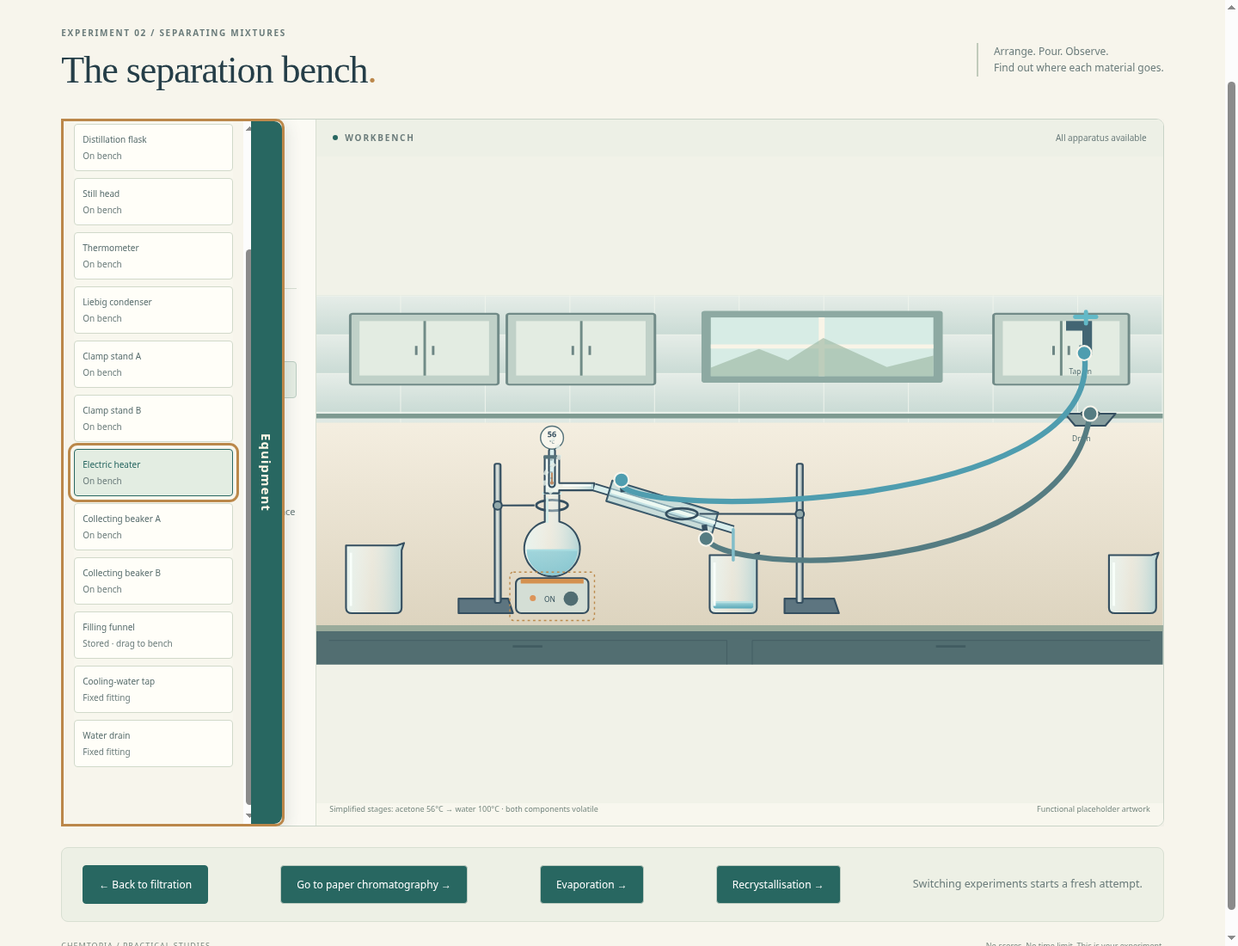
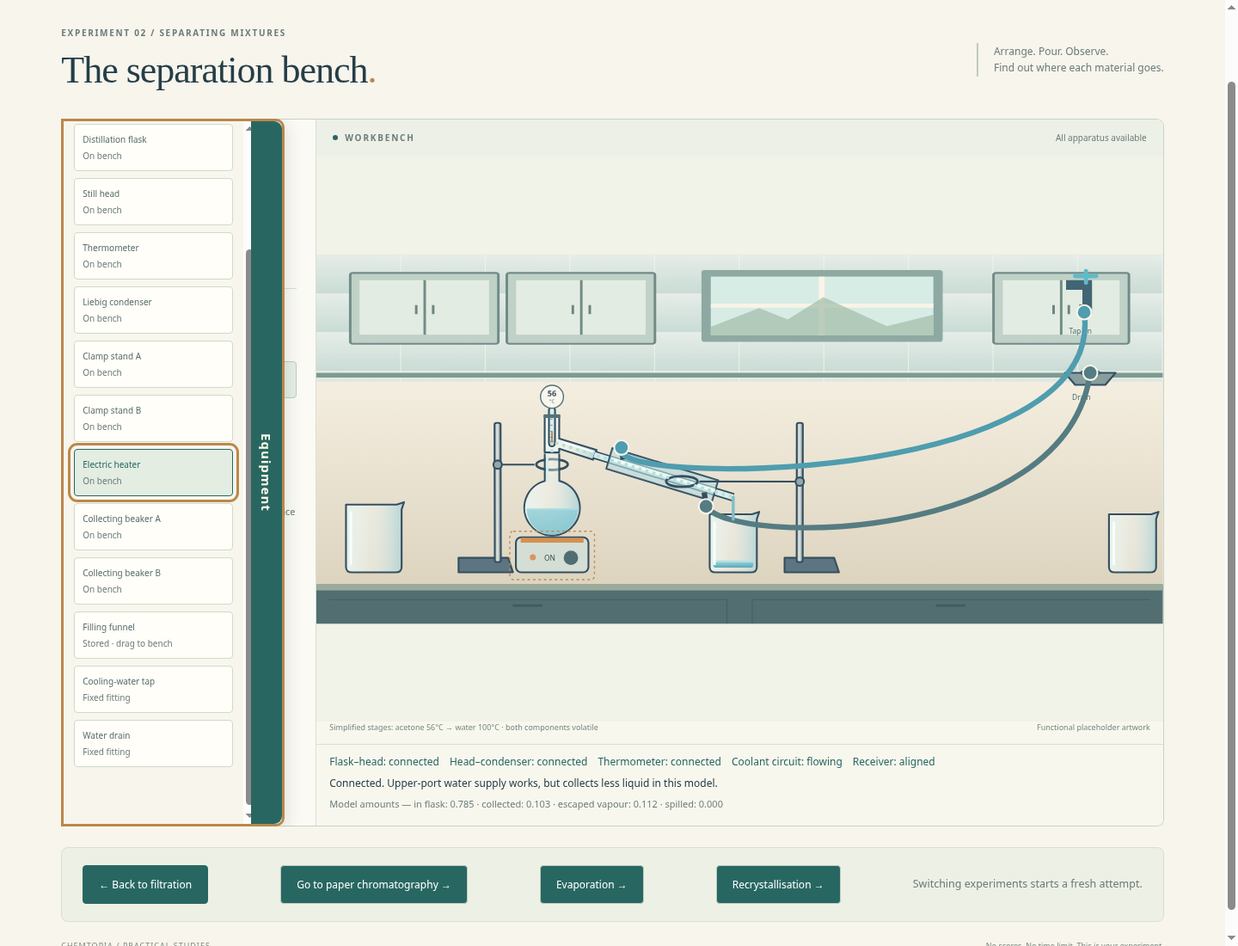
Make distillation assembly forgiving and show vapour routing status

Changed region(s): [[0.25, 0.2782, 0.9375, 0.7109], [0.2812, 0.8036, 0.5938, 0.8655]]

diff --git a/prototype/distillation-model.js b/prototype/distillation-model.js
@@ -4,18 +4,21 @@ export const EPS=1e-8;
 export const PARAMETERS={feedAcetone:.5,feedWater:.5,ambientTemperature:20,acetoneBoilingPoint:56,waterBoilingPoint:100,temperatureRiseRate:5,temperatureFallRate:4,boilRate:.075,fullJacketEfficiency:.94,partialJacketEfficiency:.48};
 const box=(x,y,w,h)=>({x,y,w,h});
 const tube=(x,y,w,h)=>box(x,y,w,h);
+export const HEAD_OUTLET={x:70,y:64};
+export const CLAMP_B_Y=-134;
+export const FIT={glass:42,clamp:42,angle:24,hose:34};
 export const NAMES={source:'Acetone–water feed',flask:'Distillation flask',head:'Still head',thermometer:'Thermometer',condenser:'Liebig condenser',support1:'Clamp stand A',support2:'Clamp stand B',heater:'Electric heater',receiverA:'Collecting beaker A',receiverB:'Collecting beaker B',funnel:'Filling funnel',tap:'Cooling-water tap',drain:'Water drain'};
 const vessel=(id,x,y,extra={})=>({id,kind:'beaker',x,y,angle:0,water:0,acetone:0,distilledAcetone:0,capacity:.8,...extra});
 export function createState(){
- const stand=id=>({id,kind:'clampStand',x:id==='support1'?300:1000,y:509,angle:0,mass:8,collision:id==='support1'?[box(0,-116,10,230),box(-20,4,90,24),box(30,-162,60,7),box(64,-162,4,20),box(116,-162,4,20)]:[box(0,-116,10,230),box(20,4,90,24),box(-83,-148,166,7),box(-221,-148,4,20),box(-169,-148,4,20)]});
+ const stand=id=>({id,kind:'clampStand',x:id==='support1'?300:1000,y:509,angle:0,mass:8,collision:id==='support1'?[box(0,-116,10,230),box(-20,4,90,24),box(30,-162,60,7),box(64,-162,4,20),box(116,-162,4,20)]:[box(0,-116,10,230),box(20,4,90,24),box(-83,CLAMP_B_Y,166,7),box(-221,CLAMP_B_Y,4,20),box(-169,CLAMP_B_Y,4,20)]});
  const state={width:1400,phase:'working',initial:{acetone:PARAMETERS.feedAcetone,water:PARAMETERS.feedWater},
   items:{
    source:vessel('source',95,413,{capacity:1.3,acetone:PARAMETERS.feedAcetone,water:PARAMETERS.feedWater}),
    flask:vessel('flask',760,385,{kind:'flask',mass:.7,capacity:1.5,heat:0,temperature:PARAMETERS.ambientTemperature,collision:[tube(-12,24,4,48),tube(12,24,4,48),{x:0,y:94,radius:46}]}),
    funnel:{id:'funnel',kind:'fillingFunnel',x:320,y:40,angle:0,mass:.15,collision:[{vertices:[{x:-40,y:0},{x:-35,y:0},{x:-3,y:34},{x:-5,y:37}]},{vertices:[{x:40,y:0},{x:35,y:0},{x:3,y:34},{x:5,y:37}]},box(-4,55,2,42),box(4,55,2,42)]},
-   head:{id:'head',kind:'head',x:180,y:37,angle:0,mass:.12,collision:[box(-12,30,4,60),box(12,19,4,38),box(38,43,64,4),box(38,57,64,4)]},
+   head:{id:'head',kind:'head',x:180,y:37,angle:0,mass:.12,collision:[box(-12,30,4,60),box(12,19,4,38),{vertices:[{x:12,y:36},{x:74,y:55},{x:72,y:59},{x:12,y:40}]},{vertices:[{x:12,y:50},{x:70,y:68},{x:68,y:72},{x:12,y:54}]}]},
    thermometer:{id:'thermometer',kind:'thermometer',temperature:PARAMETERS.ambientTemperature,x:80,y:36,angle:0,mass:.03,collision:[box(0,32.5,7,65),box(0,15,28,6)]},
-   condenser:{id:'condenser',kind:'condenser',x:1060,y:430,angle:0,mass:.5,collision:[{vertices:[{x:30,y:-11},{x:205,y:42},{x:195,y:76},{x:20,y:23}]},box(8,2,24,9),box(220,67,25,9)]},
+   condenser:{id:'condenser',kind:'condenser',x:1060,y:430,angle:0,mass:.5,collision:[{vertices:[{x:30,y:-11},{x:205,y:42},{x:195,y:76},{x:20,y:23}]},{vertices:[{x:-6,y:3},{x:-3,y:-6},{x:24,y:2},{x:21,y:11}]},box(220,67,25,9)]},
    support1:stand('support1'),support2:stand('support2'),
    heater:{id:'heater',kind:'heater',x:390,y:467,angle:0,mass:2,on:false,collision:[box(0,29,120,58)]},
    receiverA:vessel('receiverA',600,429),receiverB:vessel('receiverB',1350,429),
@@ -36,8 +39,8 @@ export function connectHose(state,hoseId,index,point){
  if(state.phase!=='working')return;
  const hose=state.hoses.find(h=>h.id===hoseId);if(!hose||!hose.ends[index])return;
  const used=new Set(state.hoses.flatMap(h=>h.ends.filter((_,i)=>h.id!==hoseId||i!==index).map(e=>e.port).filter(Boolean)));
- const port=Object.entries(ports(state)).filter(([id])=>!used.has(id)).sort((a,b)=>distance(a[1],point)-distance(b[1],point))[0];
- hose.ends[index]=port&&distance(port[1],point)<22?{port:port[0]}:{x:point.x,y:point.y};
+ const port=Object.entries(ports(state)).filter(([id])=>!used.has(id)&&!state.items[id.split(':')[0]].stored).sort((a,b)=>distance(a[1],point)-distance(b[1],point))[0];
+ hose.ends[index]=port&&distance(port[1],point)<FIT.hose?{port:port[0]}:{x:point.x,y:point.y};
 }
 const distance=(a,b)=>Math.hypot(a.x-b.x,a.y-b.y);
 export function cooling(state){
@@ -51,35 +54,38 @@ export function cooling(state){
  return supplied===lower?'lower-fed':'upper-fed';
 }
 function possibleJoints(state){
- const joints=[{id:'flask-funnel',a:'flask',pa:{x:0,y:0},b:'funnel',pb:{x:0,y:30}},{id:'flask-head',a:'flask',pa:{x:0,y:0},b:'head',pb:{x:0,y:60}},{id:'head-condenser',a:'head',pa:{x:70,y:50},b:'condenser',pb:{x:0,y:0}},{id:'head-thermometer',a:'head',pa:{x:0,y:0},b:'thermometer',pb:{x:0,y:15}}];
- for(const stand of ['support1','support2'])for(const [id,point]of [['flask',{x:0,y:20}],['condenser',{x:112,y:34}]])joints.push({id:`${stand}-${id}`,a:stand,pa:stand==='support1'?{x:90,y:-162}:{x:-195,y:-148},b:id,pb:id==='condenser'&&stand==='support2'?{x:145,y:44}:point});
+ const joints=[{id:'flask-funnel',a:'flask',pa:{x:0,y:0},b:'funnel',pb:{x:0,y:30}},{id:'flask-head',a:'flask',pa:{x:0,y:0},b:'head',pb:{x:0,y:60}},{id:'head-condenser',a:'head',pa:HEAD_OUTLET,b:'condenser',pb:{x:0,y:0}},{id:'head-thermometer',a:'head',pa:{x:0,y:0},b:'thermometer',pb:{x:0,y:15}}];
+ for(const stand of ['support1','support2'])for(const [id,point]of [['flask',{x:0,y:20}],['condenser',{x:112,y:34}]])joints.push({id:`${stand}-${id}`,a:stand,pa:stand==='support1'?{x:90,y:-162}:{x:-195,y:CLAMP_B_Y},b:id,pb:id==='condenser'&&stand==='support2'?{x:145,y:44}:point});
  return joints;
 }
 export function contactPairs(state){
  if(!state.held)return [];
  return possibleJoints(state).filter(l=>{
-  if(l.a!==state.held&&l.b!==state.held)return false;
+  if(l.a!==state.held&&l.b!==state.held||state.items[l.a].stored||state.items[l.b].stored)return false;
   // The filling funnel's narrow stem fits the neck with ordinary solid collisions.
   if(l.id==='flask-funnel')return false;
   const a=worldPoint(state.items[l.a],l.pa),b=worldPoint(state.items[l.b],l.pb);
   // Guide the narrow stem through its matching mouth before its tip hits the rim.
-  if(l.id==='head-thermometer')return Math.abs(a.x-b.x)<18&&Math.abs(a.y-b.y)<85;
-  return distance(a,b)<(l.a.startsWith('support')?165:28);
+  if(l.id==='head-thermometer')return Math.abs(a.x-b.x)<26&&Math.abs(a.y-b.y)<90;
+  return distance(a,b)<(l.a.startsWith('support')?165:FIT.glass+20);
  }).map(l=>[l.a,l.b]);
 }
 export function placeItem(state,id){
  state.held=null;
  if(state.phase!=='working')return;
- for(const link of possibleJoints(state).filter(l=>l.a===id||l.b===id)){
+ let positioned=false;
+ const candidates=possibleJoints(state).filter(l=>(l.a===id||l.b===id)&&!state.items[l.a].stored&&!state.items[l.b].stored).sort((a,b)=>Number(a.a.startsWith('support'))-Number(b.a.startsWith('support'))||distance(worldPoint(state.items[a.a],a.pa),worldPoint(state.items[a.b],a.pb))-distance(worldPoint(state.items[b.a],b.pa),worldPoint(state.items[b.b],b.pb)));
+ for(const link of candidates){
   if(state.links.some(l=>l.id===link.id))continue;
   if(link.id==='flask-funnel'&&hasLink(state,'flask-head')||link.id==='flask-head'&&hasLink(state,'flask-funnel'))continue;
   if(link.a.startsWith('support')&&state.links.some(l=>l.a.startsWith('support')&&(l.a===link.a||l.b===link.b)))continue;
   const a=state.items[link.a],b=state.items[link.b];
   const ap=worldPoint(a,link.pa),bp=worldPoint(b,link.pb);
-  const aligned=link.id==='head-thermometer'?Math.abs(ap.x-bp.x)<18&&Math.abs(ap.y-bp.y)<45:distance(ap,bp)<=(link.id==='flask-funnel'?3:21);
-  if(Math.abs(a.angle-b.angle)>12||!aligned)continue;
+  const tolerance=positioned?3:link.id==='flask-funnel'?3:link.a.startsWith('support')?FIT.clamp:FIT.glass;
+  const aligned=link.id==='head-thermometer'&&!positioned?Math.abs(ap.x-bp.x)<26&&Math.abs(ap.y-bp.y)<55:distance(ap,bp)<=tolerance;
+  if(Math.abs(a.angle-b.angle)>FIT.angle||!aligned)continue;
   const moving=state.items[id],other=id===link.a?b:a,target=id===link.a?link.pa:link.pb,otherPoint=id===link.a?link.pb:link.pa;
-  moving.angle=other.angle;const anchor=worldPoint(other,otherPoint),local=worldPoint({...moving,x:0,y:0},target);moving.x=anchor.x-local.x;moving.y=anchor.y-local.y;
+  if(!positioned){moving.angle=other.angle;const anchor=worldPoint(other,otherPoint),local=worldPoint({...moving,x:0,y:0},target);moving.x=anchor.x-local.x;moving.y=anchor.y-local.y;positioned=true;}
   state.links.push(link);
  }
  physicsFor(state).release();
@@ -89,7 +95,7 @@ export function dragApparatus(state,id,x,y){
   const head=state.items.head,mouth=worldPoint(head,{x:0,y:0});
   // The seating collar cannot be pushed through the upright glass rim.
   const collar=worldPoint(state.items.thermometer,{x:0,y:15});
-  if(collar.y<=mouth.y+6&&Math.abs(head.angle)<12&&Math.abs(x-mouth.x)<18)y=Math.min(y,mouth.y-15);
+  if(collar.y<=mouth.y+6&&Math.abs(head.angle)<12&&Math.abs(x-mouth.x)<26)y=Math.min(y,mouth.y-15);
  }
  physicsFor(state).moveHeld(id,x,y);
 }
@@ -148,6 +154,31 @@ export function stepChemistry(state,dt){
  const condensed=(mode==='lower-fed'||mode==='upper-fed')?route*Math.max(0,Math.min(PARAMETERS.fullJacketEfficiency,efficiency)):0;
  state.escaped.acetone+=a*(1-condensed);state.escaped.water+=w*(1-condensed);
  if(condensed>0){const c=state.items.condenser;receive(state,worldPoint(c,{x:230,y:70}),{acetone:a*condensed,water:w*condensed,distilledAcetone:a*condensed},'condenser');}
+}
+export function apparatusStatus(state){
+ const f=state.items.flask,c=state.items.condenser,outlet=worldPoint(c,{x:230,y:70}),mode=cooling(state);
+ const receiver=['receiverA','receiverB'].map(id=>state.items[id]).find(o=>!o.stored&&Math.abs(o.angle||0)<35&&Math.abs(o.x-outlet.x)<38&&outlet.y<=o.y+18);
+ const room=receiver?receiver.capacity-receiver.water-receiver.acetone:0;
+ const checks=[
+  {name:'Flask–head',ok:hasLink(state,'flask-head')},
+  {name:'Head–condenser',ok:hasLink(state,'head-condenser')},
+  {name:'Thermometer',ok:hasLink(state,'head-thermometer')},
+  {name:'Coolant circuit',ok:mode==='lower-fed'||mode==='upper-fed'},
+  {name:'Receiver',ok:Boolean(receiver&&room>EPS)}
+ ];
+ let message;
+ if(f.stored||f.water+f.acetone<EPS)message=state.items.source.water+state.items.source.acetone>EPS?'Flask empty. Add the acetone–water feed through the filling funnel before heating.':'Flask empty. Check the collected liquid and escaped vapour. Restart restores the starting mixture.';
+ else if(!checks[0].ok)message='Flask–head joint is open: vapour escapes at the flask mouth. Release the still head near the neck to connect it.';
+ else if(!checks[1].ok)message='Head–condenser joint is open: vapour escapes at the still-head outlet. Release the condenser inlet near the angled outlet.';
+ else if(!checks[2].ok)message='Thermometer joint is open: some vapour escapes through the top of the still head.';
+ else if(mode==='off')message='Cooling-water tap is off: vapour is not condensed. Connect both hoses and turn on the tap.';
+ else if(mode==='disconnected')message='Cooling-water circuit is incomplete: connect tap → condenser → drain. Vapour is not condensed.';
+ else if(!receiver)message='No collecting beaker under the condenser outlet: condensed liquid spills onto the bench.';
+ else if(room<=EPS)message='The collecting beaker is full. Move the other beaker under the outlet.';
+ else if(mode==='upper-fed')message='Connected. Upper-port water supply works, but collects less liquid in this model.';
+ else if(!heaterContact(state))message='Glassware and cooling circuit connected. The flask is not in contact with the heater.';
+ else message='Connected: vapour can pass through the angled head and condenser into '+NAMES[receiver.id]+'.';
+ return {checks,message,mode,receiver:receiver?.id};
 }
 export function totals(state){return [...Object.values(state.items),...state.spills,state.escaped].reduce((s,o)=>({acetone:s.acetone+(o.acetone||0),water:s.water+(o.water||0)}),{acetone:0,water:0});}
 export function outcome(state){

diff --git a/prototype/distillation-app.js b/prototype/distillation-app.js
@@ -1,7 +1,7 @@
 import {reviewQuestions,bindReviewQuestions} from './review-questions.js';
 import {initializeStorage} from './equipment-storage.js';
 import {createEquipmentMenu} from './equipment-menu.js';
-import {createState,NAMES,worldPoint,ports,hosePoint,connectHose,placeItem,detach,dragApparatus,physicsFor,pour,stepPhysics,stepChemistry,outcome,EPS} from './distillation-model.js';
+import {createState,NAMES,HEAD_OUTLET,CLAMP_B_Y,apparatusStatus,hasLink,worldPoint,ports,hosePoint,connectHose,placeItem,detach,dragApparatus,physicsFor,pour,stepPhysics,stepChemistry,outcome,EPS} from './distillation-model.js';
 const $=id=>document.getElementById(id),bench=$('bench'),layer=$('apparatus'),svgNS='http://www.w3.org/2000/svg';
 document.body.classList.add('distillation-page');bench.append($('hoses'));bench.append($('streams'));
 let state=initializeStorage(createState()),selected=null,drag=null,pouring=false,last=0,blocked=false;
@@ -26,27 +26,45 @@ function art(o){
 
  if('acetone'in o)return vesselArt(o);
  if(o.kind==='clampStand'){
-  const right=o.id==='support2',cx=right?-195:90,cy=right?-148:-162;
+  const right=o.id==='support2',cx=right?-195:90,cy=right?CLAMP_B_Y:-162;
   return `<path d="M${right?-25:-65} -8H${right?57:17}L${right?65:25} 16H${right?-25:-65}Z" fill="#5d7580" ${stroke}/><rect x="-5" y="-231" width="10" height="230" rx="3" fill="url(#metal)" ${stroke}/><path d="M0 ${cy}H${cx+(right?29:-29)}" fill="none" ${stroke}/><ellipse cx="${cx}" cy="${cy}" rx="26" ry="9" fill="none" stroke="#354f60" stroke-width="4"/><circle cy="${cy}" r="7" fill="#91a8aa" ${stroke}/><rect class="select-outline" x="${right?-230:-76}" y="-245" width="${right?310:210}" height="275" rx="6"/>`;
  }
  if(o.kind==='heater')return `<rect x="-60" width="120" height="58" rx="9" fill="#d4ded5" ${stroke}/><path d="M-52 5H52" stroke="${o.on?'#d49150':'#92a3a0'}" stroke-width="8"/><circle cx="31" cy="34" r="12" fill="#506d72"/><circle cx="-32" cy="33" r="5" fill="${o.on?'#dc9459':'#879b93'}"/><text x="-4" y="39" text-anchor="middle" font-size="12" fill="#35515b">${o.on?'ON':'OFF'}</text><rect class="select-outline" x="-70" y="-10" width="140" height="80" rx="6"/>`;
- if(o.kind==='head')return `<path d="M-12 0V60H12V55H70V43H12V0Z" fill="url(#glass)" ${stroke}/><path d="M-7 5V51M18 47H65" stroke="#f8fffa" stroke-width="3"/><rect class="select-outline" x="-24" y="-12" width="108" height="85" rx="6"/>`;
+ if(o.kind==='head')return `<path d="M-12 0V60H12V54L68 72L74 56L12 37V0Z" fill="url(#glass)" ${stroke}/><path d="M-7 5V51M18 43L69 59" stroke="#f8fffa" stroke-width="3"/><rect class="select-outline" x="-24" y="-12" width="110" height="96" rx="6"/>`;
  if(o.kind==='thermometer')return `<rect x="-5" width="10" height="65" rx="5" fill="#d9eeee" ${stroke}/><path d="M0 58V${58-38*(o.temperature-20)/80}" stroke="#bd8862" stroke-width="3"/><circle cy="58" r="3" fill="#bd8862"/><rect x="-14" y="12" width="28" height="6" rx="2" fill="#55727a"/><path d="M-3 20H1M-3 30H1M-3 40H1M-3 50H1" stroke="#55727a"/><circle cx="0" cy="-17" r="19" fill="#f8f6ed" stroke="#55727a" stroke-width="2"/><text id="temperature-reading" x="0" y="-18" text-anchor="middle" font-size="13" font-weight="700" fill="#354f60">${Math.round(o.temperature)}</text><text x="0" y="-7" text-anchor="middle" font-size="8" fill="#55727a">°C</text><rect class="select-outline" x="-23" y="-40" width="46" height="115" rx="6"/>`;
  if(o.kind==='condenser')return `<path d="M0 0L230 70" stroke="#354f60" stroke-width="14"/><path d="M0 0L230 70" stroke="#d9eeec" stroke-width="9"/><path d="M30 -11L205 42L195 76L20 23Z" fill="#e0eeec80" ${stroke}/><path d="M30 -11L205 42L195 76L20 23Z" fill="#79bdcc" opacity="${state.jacket*.7}"/><path d="M28 7L200 59" stroke="#edf9f2" stroke-width="6"/><path d="M45 -12L48 8M185 85L182 62" fill="none" stroke="#354f60" stroke-width="9"/><circle cx="45" cy="-12" r="7" class="water-port"/><circle cx="185" cy="85" r="7" class="water-port"/><rect class="select-outline" x="-15" y="-30" width="260" height="132" rx="6"/>`;
  if(o.kind==='tap')return `<path d="M-30 -15H5V25H0V30" fill="none" stroke="#426573" stroke-width="16"/><path d="M-15 -30H20M3 -38V-19" stroke="${o.on?'#62b9c7':'#8da3a5'}" stroke-width="7" stroke-linecap="round"/><circle cy="30" r="9" class="water-port"/><text x="-25" y="65" class="experiment-readout">Tap ${o.on?'on':'off'}</text>`;
  return `<path d="M-42 0H42L25 20H-25Z" fill="#879e9e" ${stroke}/><ellipse rx="17" ry="6" fill="#3c5760"/><text x="-30" y="45" class="experiment-readout">Drain</text>`;
+}
+const setup=document.createElement('section');setup.id='setup-status';setup.className='setup-status';setup.setAttribute('aria-label','Distillation connections');
+setup.innerHTML='<div id="connection-checks"></div><p id="setup-message" role="status"></p><p id="process-amounts"></p>';
+bench.closest('.bench-panel').append(setup);
+function vapourArt(){
+ if(!state.vapourVisible)return '';
+ const f=state.items.flask,h=state.items.head,c=state.items.condenser;
+ const mouth=worldPoint(f,{x:0,y:0}),top=worldPoint(h,{x:0,y:42}),joint=worldPoint(h,HEAD_OUTLET),outlet=worldPoint(c,{x:230,y:70});
+ const head=hasLink(state,'flask-head'),condenser=head&&hasLink(state,'head-condenser');
+ const thermometerOpening=worldPoint(h,{x:0,y:0});
+ const points=head?[mouth,top,joint,...(condenser?[outlet]:[])]:[mouth];
+ const end=points.at(-1),cooled=['lower-fed','upper-fed'].includes(apparatusStatus(state).mode);
+ return `<path d="${points.map((p,i)=>(i?'L':'M')+p.x+' '+p.y).join(' ')}" fill="none" stroke="#b5e0da" stroke-width="5" stroke-dasharray="5 7" pointer-events="none"/>${!condenser||!cooled?`<path d="M${end.x} ${end.y}q-18 -20 0 -38t0 -32" stroke="#87a9ab" stroke-width="6" stroke-dasharray="8 9" fill="none" opacity=".8" pointer-events="none"/>`:''}${head&&!hasLink(state,'head-thermometer')?`<path d="M${thermometerOpening.x} ${thermometerOpening.y}q-18 -20 0 -38" stroke="#87a9ab" stroke-width="5" stroke-dasharray="8 9" fill="none" opacity=".7" pointer-events="none"/>`:''}`;
 }
 function render(){
  for(const [id,g]of groups){const o=state.items[id];g.setAttribute('transform',`translate(${o.x} ${o.y}) rotate(${o.angle||0})`);g.innerHTML=art(o);g.classList.toggle('selected',selected===id);if(o.kind==='thermometer')g.setAttribute('aria-label',`Thermometer, ${Math.round(o.temperature)} degrees Celsius`);g.setAttribute('aria-disabled',String(state.phase!=='working'));g.setAttribute('aria-description',state.links.filter(l=>l.a===id||l.b===id).map(l=>'Connected to '+NAMES[l.a===id?l.b:l.a]).join('. '));}
  if(selected&&groups.has(selected))layer.append(groups.get(selected));
  $('hoses').innerHTML=state.hoses.map((h,j)=>{const [a,b]=h.ends.map(e=>hosePoint(state,e));return `<path d="M${a.x} ${a.y}C${a.x+40} ${Math.max(a.y,b.y)+65},${b.x-40} ${Math.max(a.y,b.y)+65},${b.x} ${b.y}" fill="none" stroke="${j?'#557c82':'#4f9daf'}" stroke-width="9" stroke-linecap="round" pointer-events="none"/>${[a,b].map((p,i)=>`<circle data-hose="${h.id}" data-end="${i}" data-port="${h.ends[i].port||''}" cx="${p.x}" cy="${p.y}" r="12" class="hose-end" fill="${j?'#557c82':'#4f9daf'}" aria-label="Water hose ${j+1}, end ${i+1}"/>`).join('')}`;}).join('');
  $('spills').innerHTML=state.spills.map(s=>`<ellipse cx="${s.x}" cy="525" rx="${Math.min(65,10+(s.water+s.acetone)*100)}" ry="9" fill="#78b7c3" opacity=".65"/>`).join('');
- $('streams').innerHTML=state.flow.map(f=>`<path d="M${f.from.x} ${f.from.y}L${f.to.x} ${f.to.y}" stroke="#82bdc9" stroke-width="5" stroke-linecap="round"/>`).join('')+(state.vapourVisible?`<path d="M${state.items.flask.x} ${state.items.flask.y}q-25 -25 0 -45t0 -45" stroke="#e4eee7" stroke-width="7" stroke-dasharray="8 9" fill="none" opacity=".8"/>`:'');
+ $('streams').innerHTML=state.flow.map(f=>`<path d="M${f.from.x} ${f.from.y}L${f.to.x} ${f.to.y}" stroke="#82bdc9" stroke-width="5" stroke-linecap="round"/>`).join('')+vapourArt();
  $('selected-name').textContent=NAMES[selected]||(selected?.startsWith('hose')?'Water hose end':'Nothing selected');
  const o=state.items[selected],action=o?.kind==='heater'?`${o.on?'Stop':'Start'} heating`:o?.kind==='tap'?`${o.on?'Stop':'Start'} water`:o&&'acetone'in o?`${pouring?'Stop':'Start'} pouring`:'Select apparatus';
  $('action').disabled=state.phase!=='working'||o?.stored||!o||!('acetone'in o||['heater','tap'].includes(o.kind));$('action').textContent=action;$('action').setAttribute('aria-pressed',String(o?.on||pouring));
  $('action-note').textContent=blocked?'Leave room for the vessel to tilt.':o&&'acetone'in o?'Hold the vessel with the mouse. Space starts/stops pouring.':o?.kind==='heater'||o?.kind==='tap'?'Space switches this control on or off.':'Drag equipment, or drag individual hose ends onto water fittings.';
  for(const b of $('equipment').children){b.disabled=state.phase!=='working';b.setAttribute('aria-pressed',String(b.dataset.equipment===selected));}
+ const status=apparatusStatus(state);
+ $('connection-checks').innerHTML=status.checks.map(c=>`<span class="${c.ok?'connected':'open-joint'}">${c.name}: ${c.name==='Receiver'?(c.ok?'aligned':'missing / full'):c.name==='Coolant circuit'?(c.ok?'flowing':status.mode==='off'?'tap off':'incomplete'):c.ok?'connected':'open'}</span>`).join('');
+ if($('setup-message').textContent!==status.message)$('setup-message').textContent=status.message;
+ const collected=state.items.receiverA.water+state.items.receiverA.acetone+state.items.receiverB.water+state.items.receiverB.acetone;
+ $('process-amounts').textContent=`Model amounts — in flask: ${(state.items.flask.water+state.items.flask.acetone).toFixed(3)} · collected: ${collected.toFixed(3)} · escaped vapour: ${(state.escaped.water+state.escaped.acetone).toFixed(3)} · spilled: ${state.spills.reduce((n,o)=>n+o.water+o.acetone,0).toFixed(3)}`;
  $('finish').disabled=state.phase!=='working';menu?.sync();
 }
 function stopPour(){if(pouring&&selected)physicsFor(state).tilt(selected,0);pouring=false;state.flow=[];}
@@ -67,7 +85,7 @@ $('equipment').addEventListener('focusin',e=>{if(e.target.dataset.equipment&&e.t
 function action(){
  if(state.phase!=='working')return;const o=state.items[selected];if(!o||o.stored)return;
  if(o.kind==='heater'||o.kind==='tap')o.on=!o.on;
- else if('acetone'in o){if(pouring)stopPour();else if(physicsFor(state).tilt(selected,35)){pouring=true;blocked=false;}else{physicsFor(state).tilt(selected,0);blocked=true;}}
+ else if('acetone'in o){if(pouring)stopPour();else if(physicsFor(state).tilt(selected,35)||o.angle>=15&&o.angle<=35){pouring=true;blocked=false;}else{physicsFor(state).tilt(selected,0);blocked=true;}}
  render();
 }
 $('action').addEventListener('click',action);

diff --git a/prototype/style.css b/prototype/style.css
@@ -8,3 +8,5 @@
 #review-paper{touch-action:none;user-select:none;max-width:100%;overflow:visible}#review-paper [data-review-ruler]{cursor:grab}#review-paper [data-review-ruler]:active{cursor:grabbing}
 
 #explanation fieldset{border:0;border-top:1px solid var(--border);padding:18px 0 6px;margin-top:16px}#explanation legend{padding-right:12px}#explanation .calculation-answer{display:flex;flex-direction:column;gap:5px;max-width:420px;margin:12px 0;font-size:14px}#explanation .calculation-answer input{padding:9px;border:1px solid #a9bab0;border-radius:4px;background:#fffdf5;color:var(--ink);font:inherit}.review-feedback{min-height:22px}
+
+.setup-status{padding:10px 15px;background:#f8f7ee;border-top:1px solid var(--border);font-size:12px}.setup-status p{margin:6px 0}.setup-status #connection-checks{display:flex;flex-wrap:wrap;gap:6px 12px}.setup-status .connected{color:#286761}.setup-status .open-joint{color:#8a542e}.setup-status #process-amounts{font-size:11px;color:var(--muted)}

diff --git a/docs/design/distillation-prototype-spec.md b/docs/design/distillation-prototype-spec.md
@@ -92,3 +92,15 @@ The current first-question prompt is retained with balanced shuffled choices. Tw
 The owner requested that the filling funnel drop into the round-bottom flask instead of balancing its tip on the rim. Its narrower stem now fits inside the neck with ordinary solid collisions. Release it above an upright supported flask: gravity lowers it until the cone meets the mouth, then a close-contact joint stabilises it with the stem inside. Releasing it high above the mouth does not snap it into position. The funnel can still be lifted out or stored before fitting the still head. Its liquid outlet routes into the neck interior, preserving both feed components.
 
 Verification releases the funnel above the mouth, checks the fall, insertion depth and stable seating, lifts it out, and fills through it in the full browser playthrough. Other apparatus and laboratory physics are unchanged.
+
+## Forgiving assembly and visible vapour routing
+
+The owner reported visually aligned equipment producing no liquid and requested easier placement plus a downward still-head outlet. The head's side arm now slopes downward along the condenser axis; its art, solid hitboxes, outlet anchor and condenser support height agree.
+
+Nearby compatible glass joints now seat within 42 model pixels and 24° on release; thermometer insertion accepts 26 pixels lateral / 55 pixels vertical clearance. Hose ends attach to the nearest unused fitting within 34 model pixels. These are interface tolerances, not laboratory dimensions. The filling funnel retains its gravity-driven narrow-stem insertion and close seating threshold. Stored apparatus cannot attract a joint. Glass connections are prioritised before support contacts, and adding a second joint does not shift an already aligned assembly towards another target. Distant, incompatible and incomplete arrangements remain possible.
+
+A live panel reports actual flask–head, head–condenser and thermometer joints, coolant flow and receiver alignment. It explains an open joint, tap-off/incomplete circuit, empty flask, missing/full receiver, absent heater contact or upper-port supply. A running amount display distinguishes liquid remaining in the flask, collected liquid, escaped vapour and spills. No material is silently restored or held back in a wrong setup.
+
+The vapour graphic follows the connected glass path, with escape plumes at open outlets or missing cooling; an open thermometer joint has its own escape plume. The existing qualitative condensation efficiencies and lower recovery for upper-port coolant supply are preserved. The 56°C/100°C teaching stages, three review questions and material balances are unchanged. A beaker with limited tilt clearance may pour at an achieved angle of at least 15° rather than requiring exactly 35°; lifting it still provides more clearance.
+
+Browser verification deliberately offsets head, condenser, thermometer and hose placement, then fills, heats, collects liquid, cools and answers the review. Model checks cover distant/stored apparatus, stable assembled heating, diagnoses, incomplete coolant, reversed supply and conservation.

diff --git a/docs/design/decisions.md b/docs/design/decisions.md
@@ -192,3 +192,9 @@ The owner also requested two harder questions after each existing first question
 ## Distillation filling funnel drops into the flask — 22 October 2026
 
 The owner requested dropping the filling funnel into the round-bottom flask and suggested a narrower end. The stem is now narrower, and its tip enters the neck before the cone rests at the mouth. The previous tip-at-rim joint is superseded by close-contact seating after the fall. Ordinary solid collisions remain active during insertion. Pouring through the inserted stem reaches the flask; lifting/storing still detaches it. Existing push authorisation applies.
+
+## Distillation assembly and vapour diagnosis — 22 October 2026
+
+The owner reported that vapour disappeared without collected liquid, asked for more forgiving equipment placement, and requested a downward still-head outlet. Matching glass joints and coolant fittings now accept near misses and visibly seat; the head, collider geometry and condenser clamp height share the same sloped route. The narrow filling funnel remains unchanged.
+
+Live connection and material readouts explain actual open joints, coolant state, missing/full receivers, empty feed and escaped vapour rather than requiring the student to infer a hidden joint state from the artwork. Vapour is drawn along connected glass and at actual open paths. Physically possible wrong setups, upper-port coolant supply with lower recovery, student-operated heating and the existing simplified two-stage boiling model remain operable.

diff --git a/AGENTS.md b/AGENTS.md
@@ -84,3 +84,8 @@ The owner explicitly requested arrested stand creep, evaporation of water from h
 ## Beaker endpoint and harder review questions
 
 The owner requested crystals in the recrystallisation beaker as a valid endpoint, optional second filtration, and two harder questions after each current first question. They explicitly asked to remove the longest-answer cue and include actual R_F calculation. Preserve the first-question prompts, use balanced shuffled choices, require typed numerical work and retain retry. See docs/design/review-questions.md and the revised recrystallisation specification. Existing commit/push authorisation applies.
+
+
+## Forgiving distillation assembly and diagnosis
+
+The owner requested more forgiving equipment placement, troubleshooting for escaping vapour/no collection, and a downward still-head outlet matching the Liebig condenser. This authorises nearby joint/hose seating and live actual-connection/material feedback. Preserve the narrow falling filling funnel, wrong setups, reduced recovery with upper-port coolant, student-operated actions, material conservation and existing boiling stages. Art, hitboxes and joint anchors must agree. See the revised distillation specification. Existing push authorisation applies.

diff --git a/prototype/README.md b/prototype/README.md
@@ -122,3 +122,5 @@ Recrystallisation can finish once crystals form in a clean beaker, even while mo
 Each lab keeps its existing first question and adds two harder questions. Multiple-choice options have comparable lengths and shuffled order; later numerical questions require typed calculations with feedback and retry. Chromatography retains the draggable ruler and measured R_F table, and adds numerical R_F and baseline-offset calculations. See [the complete question set](../docs/design/review-questions.md).
 
 For distillation, release the filling funnel above the upright supported flask. Its narrow stem drops into the neck and the cone rests at the mouth. Lift/store it before fitting the still head.
+
+Distillation now seats nearby matching glass joints and hose fittings more forgivingly. The still-head outlet slopes down to match the Liebig condenser. Check the live connection panel below the bench: glass joints should show connected, coolant should be flowing, and a receiving beaker should be aligned. The panel explains any open joint or missing circuit and shows flask, collected, escaped-vapour and spill amounts. Wrong setups can still lose material; upper-port water supply remains possible with reduced recovery.

diff --git a/docs/design/distillation-prototype-review.md b/docs/design/distillation-prototype-review.md
@@ -33,3 +33,7 @@ The analogue thermometer now carries a circular digital °C number above its ste
 Release the funnel above the upright supported flask. Its narrowed stem falls into the neck until the cone rests at the mouth. Pour through it, then lift or store it before fitting the still head.
 
 ![Narrow filling funnel seated inside the flask neck](../art/previews/distillation-funnel-seated.png)
+
+## Angled head and connection feedback
+
+The head outlet now slopes down into the Liebig condenser. Matching glassware and hose fittings accept nearby placement and seat visibly. The live panel below the bench reports actual joints, coolant flow and receiver alignment, explains any open path, and separates remaining, collected, escaped and spilled model amounts. The updated running image above shows liquid collection after deliberately off-centre placement. Upper-port supply remains usable with reduced recovery.
